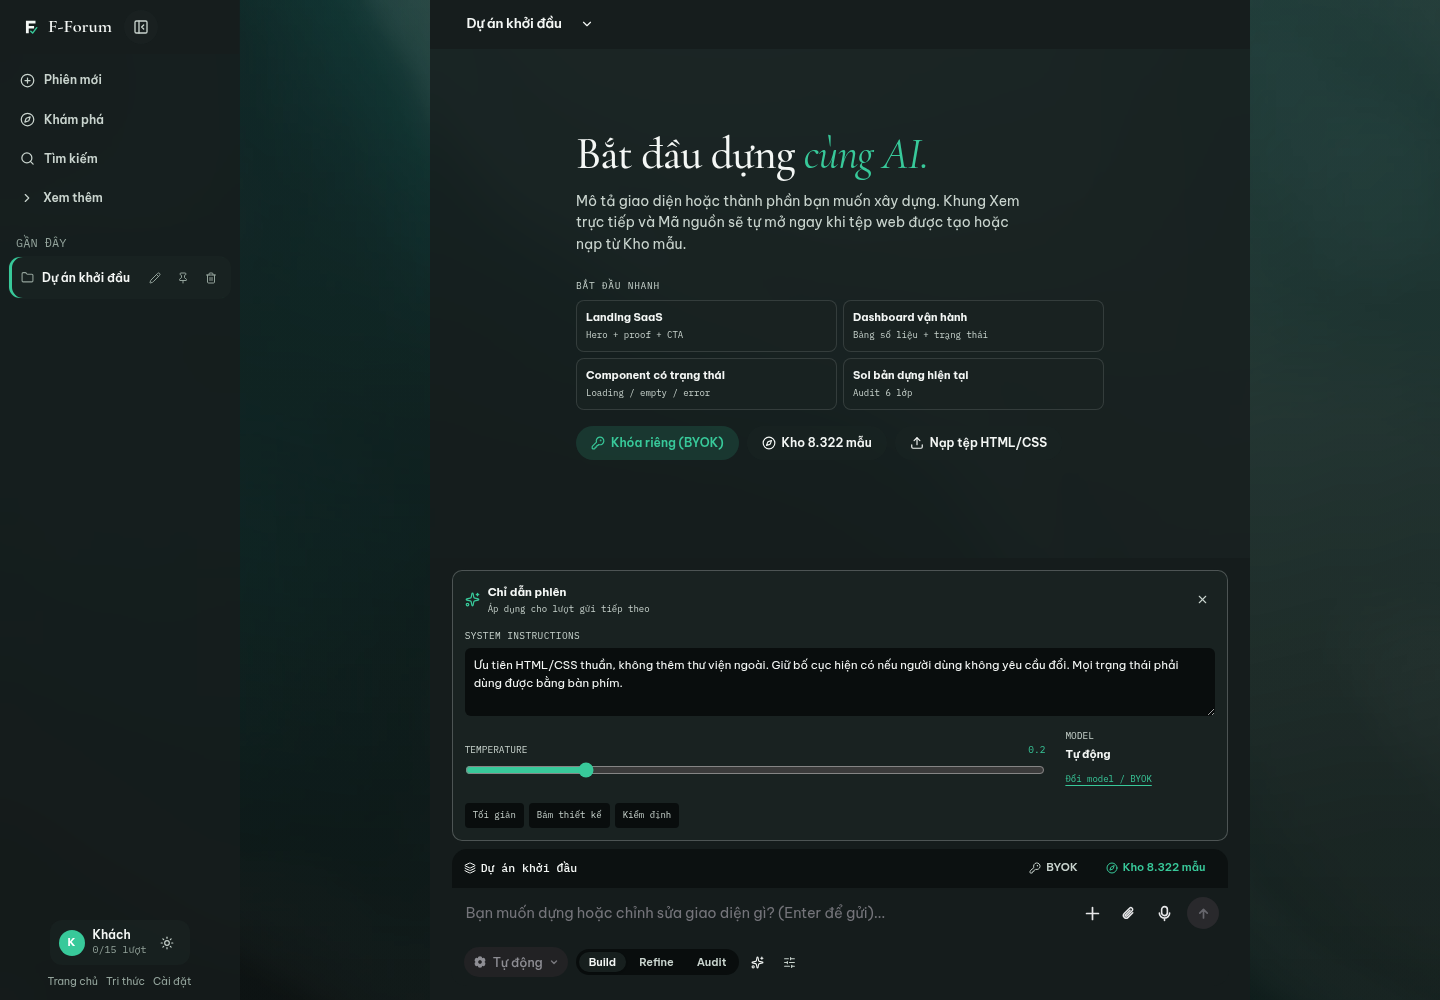
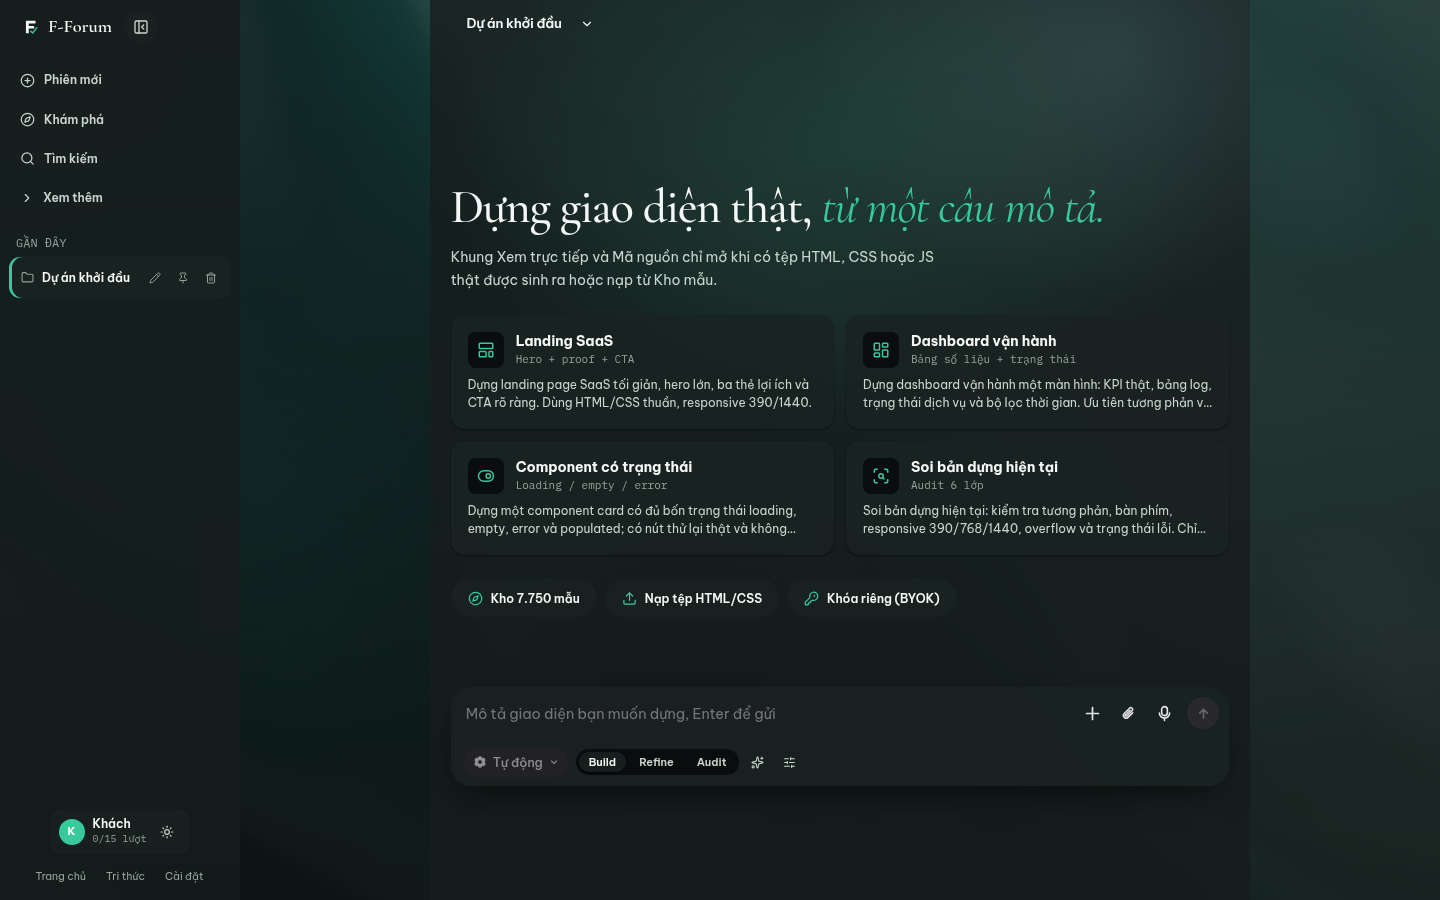
docs(readme): add fine-art studio cover, animated SVG architecture mind-map & fresh 1440px live screenshots

diff --git a/README.md b/README.md
@@ -1,119 +1,128 @@
-# F-FORUM v3
+<div align="center">
 
-[![Live production](https://img.shields.io/badge/live-fforum3.vercel.app-2fb59a)](https://fforum3.vercel.app)
+<img src="docs/assets/hero-art.jpg" alt="F-Forum v3 Nocturnal Glass Studio Artwork" width="880" />
 
-F-FORUM v3 is a developer workspace, curated UI/UX and AI resource index, and technical knowledge hub for building, inspecting, and exporting web interfaces. It combines a retained editorial landing experience at `/` with a four-part application shell (`Home`, `Explore`, `Workspace`, `Knowledge`), an AI build arena with sandboxed live preview, real system instructions and temperature controls, secret-scanned ZIP export, and a dual-runtime backend supporting local Express execution and Vercel Serverless Functions.
+<br />
 
-The Knowledge surface indexes **8,322 records** from [`broamstuck-cybr/SOURCEOFKNOWLEDGFORAI`](https://github.com/broamstuck-cybr/SOURCEOFKNOWLEDGFORAI), ranks them deterministically (title → tags/category → runnable source → source reliability), and routes every result into the Experience stage instead of stopping at a thumbnail.
+<img src="docs/assets/banner.svg" alt="F-Forum v3 — Spatial Web Workbench & 7,750 Free UI/3D Specimens" width="880" />
 
-## Screenshots
+<br />
 
-| Home | Knowledge search | Workspace |
-|---|---|---|
-| ![Home](./docs/screenshots/01-home.png) | ![Knowledge search](./docs/screenshots/02-knowledge.png) | ![Workspace with session instructions](./docs/screenshots/03-workspace.png) |
+[![Live Production](https://img.shields.io/badge/live-fforum3.vercel.app-0d825f?style=flat-square)](https://fforum3.vercel.app)
+[![React 19](https://img.shields.io/badge/React-19-111816?style=flat-square&logo=react&logoColor=38c99a)](https://react.dev)
+[![TypeScript 5](https://img.shields.io/badge/TypeScript-5-111816?style=flat-square&logo=typescript&logoColor=38bdf8)](https://www.typescriptlang.org)
+[![Tests](https://img.shields.io/badge/tests-28%2F28%20passing-1f4d35?style=flat-square)](./tests)
+[![License: MIT](https://img.shields.io/badge/license-MIT-263345?style=flat-square)](./LICENSE)
 
-Screenshots are desktop captures at 1440 px. Knowledge uses live vault data; Workspace shows a real session-instruction panel, not a mock overlay.
+</div>
 
-## Architecture
+---
+
+## Overview
+
+**F-Forum v3** is a full-stack web workbench, curated public UI/3D archive, and technical community built for Vietnamese learners and frontend builders. Instead of leaving users to prompt blank pages from scratch, the app pairs **7,750 free, directly viewable UI and 3D specimens** with a sandboxed AI build workspace, an editorial feed, and a real-time messenger.
+
+Every specimen in the vault comes from six public sources—CodeFronts (`5,047`), GetLayers (`966`), MotionSites (`826`), LucianLabs (`480`), ThreeUI public free (`389`, with all 548 Pro-only routes removed), and PinUI (`42`)—compressed into gzipped shards under `./public/data/vault/` so pages load fast without external vendor redirects.
+
+## Live Product Gallery
+
+Captures taken directly from the production deployment at [fforum3.vercel.app](https://fforum3.vercel.app) at `1440 × 900`:
+
+<table>
+  <tr>
+    <td width="50%" align="center">
+      <img src="docs/screenshots/01-landing.png" alt="F-Forum v3 Editorial Landing & Live Telemetry" width="100%" /><br />
+      <sub><strong>Landing &amp; Live Metrics</strong> — Obsidian/Emerald palette, real visitor &amp; usage-hour telemetry, randomized MotionSites kits</sub>
+    </td>
+    <td width="50%" align="center">
+      <img src="docs/screenshots/02-explore.png" alt="F-Forum v3 Explore 7,750 Public UI & 3D Specimens" width="100%" /><br />
+      <sub><strong>Explore Vault (7,750 Public Specimens)</strong> — Direct sandbox preview, Free ThreeUI motion clips, PinUI interactive demos</sub>
+    </td>
+  </tr>
+  <tr>
+    <td width="50%" align="center">
+      <img src="docs/screenshots/03-workspace.png" alt="F-Forum v3 2027 Spatial AI Workspace" width="100%" /><br />
+      <sub><strong>2027 Spatial Workspace</strong> — Centered prompt canvas when empty; split Live Preview, Diff &amp; 6-layer audit open once code exists</sub>
+    </td>
+    <td width="50%" align="center">
+      <img src="docs/screenshots/04-community.png" alt="F-Forum v3 Editorial Feed & Messenger" width="100%" /><br />
+      <sub><strong>Knowledge Feed &amp; Messenger</strong> — Layered editorial feed cards, grouped chat bubbles, 28-bar voice notes, live BroadcastChannel sync</sub>
+    </td>
+  </tr>
+</table>
+
+## Architecture & Mind-Map
+
+<div align="center">
+  <img src="docs/assets/mindmap.svg" alt="F-Forum v3 Architecture Mind-Map" width="880" />
+</div>
 
 ```mermaid
 flowchart LR
-  Client["React 19 + Vite SPA"] --> Router["Path & Query Router"]
-  Router --> Landing["/ Legacy Editorial Landing"]
-  Router --> AppShell["4-Tab App Shell (Home, Explore, Workspace, Knowledge)"]
-  Router --> Admin["/admin Unlimited Control Plane"]
-  AppShell --> Store["AppStore + LocalStorage Persistence"]
-  Store --> API["/api/* Dual-Runtime Gateway"]
-  API --> Auth["authEngine (HMAC-SHA256 HttpOnly Cookies)"]
+  SPA["React 19 + Vite 6 SPA"] --> Landing["/ Editorial Landing & Bookshelf"]
+  SPA --> Explore["/explore 7,750 Free Vault"]
+  SPA --> Workspace["/workspace AI Build & Audit"]
+  SPA --> Community["/community Feed & Chat"]
+  SPA --> Admin["/admin Isolated Control Plane"]
+
+  Explore --> Shards["public/data/vault/*.jgz (Gzip Shards)"]
+  Workspace --> API["/api/* Express & Vercel Serverless"]
+  Community --> API
+  Admin --> API
+
+  API --> Auth["authEngine (HMAC Cookies + Google OAuth)"]
   API --> Quota["quotaStore (15-Turn Cap / Admin Bypass)"]
-  API --> AIEngine["aiEngine (OpenAI / Anthropic / Gemini + Deterministic Fallback)"]
-  API --> Community["communityStore (Q&A, Showcase, Drops, Club Hub)"]
-  API --> Persistence["Persistence: Supabase PostgreSQL or local JSON fallback"]
+  API --> AI["aiEngine (OpenAI / Anthropic / Gemini)"]
+  API --> Metrics["metricsStore (Real Visitors & Active Hours)"]
+  API --> Store["Supabase RLS or Local JSON Fallback"]
 ```
 
-- **Frontend (`./src`)**: React 19, TypeScript, Tailwind CSS v4, Motion, Lucide icons, and JSZip.
-  - `src/features/launchpad/HomeView.tsx` & `src/components/launchpad/ScrollStoryEngine.tsx`: Spatial Home Launchpad with Liquid Glass `PromptComposer`, client-side Blueprint Builder, and 4-Act GPU Scroll Storytelling Engine (`src/styles/story.css`).
-  - `src/features/explore/ExperienceView.tsx`: live sandbox for CodeFronts/LucianLabs/PinUI, MotionSites trailer + prompt, a GetLayers background lab with real video/overlay/blur controls, and an external-demo handoff for ThreeUI pages that block iframes.
-  - `src/features/workspace/`: 3-column Build Workspace (`WorkspaceView.tsx`, `Thread.tsx`, `LivePreviewFrame.tsx`, `DiffViewer.tsx`, `ChecksPanel.tsx`, `AiProjectSetupDrawer.tsx`) with starter prompts, per-session system instructions and temperature.
-  - `src/features/knowledge/`: search-first Knowledge view (`KnowledgeView.tsx`), deterministic ranking (`knowledgeRanking.ts`) over `public/data/studio-vault.json`, source/category facets, runnable-only filter and paginated results.
-  - `src/features/community/CommunityView.tsx` & `src/features/admin/AdminView.tsx`: 3-mode Knowledge hub (`Tra cứu`, `Bảng tin`, `Phòng chat`) and unlimited `/admin` control plane.
-- **Backend (`./server` & `./api`)**: Shared TypeScript core in `./server` mounted by Express for local development and wrapped by Vercel Serverless handlers in `./api` for cloud deployment.
-- **Persistence**: Optional Supabase PostgreSQL (`supabase/schema.sql`, 8 tables with RLS) stores users, quotas, community content, audit logs, changelog and per-user workspace projects. When `SUPABASE_URL` and `SUPABASE_SERVICE_ROLE_KEY` are unset, the server falls back to a local JSON store in `./data`. Guest workspaces stay in browser `localStorage`; signed-in users sync projects through `/api/projects/*`.
-- **Design System**: Adaptive Dark (`Obsidian Foundry`) and Light (`Editorial Stone`) token palettes built on non-grid spatial layouts and traceable to the five libraries in `broamstuck-cybr/SOURCEOFKNOWLEDGFORAI`.
+## Key Capabilities
+
+- **Curated Public Vault (`src/features/explore`):** 7,750 verified free resources across 6 libraries, plus 60 developer tools and 122 GitHub repositories. All Pro-only ThreeUI items and outbound redirect buttons are excluded so users stay inside the sandbox.
+- **Spatial AI Workspace (`src/features/workspace`):** Keeps the preview pane hidden on blank sessions, opens a split `Live View / Source / Audit & Diff` workbench as soon as HTML/CSS/JS exists, checks 6 quality rules, and exports secret-scanned ZIP bundles.
+- **Editorial Feed & Messenger (`src/features/community`):** Two focused tabs (`Bảng tin` and `Phòng chat`) with layered editorial cards, live code embeds, polls, grouped chat bubbles, 28-bar voice recording/playback, syntax-highlighted snippets, and cross-tab typing indicators.
+- **Collector Bookshelf (`src/components/launchpad/GlacierBookShelf.tsx`):** 12-volume 3D tactile library with linen spine textures, physical shelf lighting, and a quick-jump reader dialog.
+- **Security, Google OAuth & Isolated Admin (`server/authEngine.ts`, `src/features/admin`):** Real Google Identity Services ID-token verification via `oauth2.googleapis.com/tokeninfo`, strict separation between user and admin controls/notifications, live traffic & usage-hour analytics, and role management.
 
 ## Prerequisites
 
-- Node.js 20.0.0 or newer
-- npm 10.0.0 or newer
+- **Node.js 20+** and **npm 10+**
+- Optional: **Supabase** project for cloud persistence, **Google Cloud OAuth 2.0 Web Client ID** for Google Sign-In, and an OpenAI/Anthropic/Gemini-compatible API endpoint.
 
-## Installation
+## Installation & Usage
 
 ```bash
 git clone https://github.com/broamstuck-cybr/f_forumv3.git
 cd f_forumv3
 npm install
 cp .env.example .env
+npm run dev
 ```
 
-## Usage
+Open `http://localhost:5173`. Both the Vite frontend and Express API run together in development; production builds target Vercel Serverless Functions via `./api/*`.
 
-Populate `.env` with your AI provider credentials and session secret before starting the development server.
+### Verification Commands
 
 ```bash
-# Run both the Vite frontend and the Express API server concurrently
-npm run dev
-
-# Run frontend or API server individually
-npm run dev:web
-npm run dev:api
-
-# Run static typecheck and lint verification
-npm run typecheck
-npm run lint
-
-# Run the automated Node test suite
-npm test
-
-# Build production assets into ./dist
-npm run build
-
-# Confirm Supabase tables and RLS (requires SUPABASE_URL and SUPABASE_SERVICE_ROLE_KEY)
-node scripts/verify-supabase.mjs
+npm run typecheck   # TypeScript strict check
+npm run lint        # Oxlint static analysis
+npm test            # 28 unit & regression tests (auth, quota, vault, metrics)
+npm run build       # Production Vite bundle
 ```
 
 ## Configuration
 
-All runtime secrets and gateway parameters are read from environment variables. Copy `.env.example` to `.env` for local execution or configure them in your deployment platform.
+| Variable | Required | Purpose |
+| --- | --- | --- |
+| `SESSION_SECRET` | Yes (prod) | HMAC-SHA256 signing key for HttpOnly session cookies |
+| `ADMIN_USERNAME` | Yes (admin) | Admin login identifier |
+| `ADMIN_PASSWORD_HASH` | Yes (admin) | Scrypt password hash for root admin authentication |
+| `GOOGLE_CLIENT_ID` | Optional | Google OAuth 2.0 Web Client ID verified by `/api/auth/google` |
+| `VITE_GOOGLE_CLIENT_ID` | Optional | Public Client ID loaded by Google Identity Services in `AuthModal` |
+| `AI_BASE_URL` / `AI_API_KEY` / `AI_MODEL` | Optional | Server-side AI gateway (users can also configure BYOK in Settings) |
+| `SUPABASE_URL` / `SUPABASE_SERVICE_ROLE_KEY` | Optional | Cloud PostgreSQL persistence (`supabase/schema.sql`); falls back to local JSON in `./data` |
 
-| Variable | Required | Default | Description |
-|---|---|---|---|
-| `AI_API_KEY` | Yes | empty | Server-side API key for the upstream LLM provider |
-| `AI_PROTOCOL` | No | `openai-compatible` | Upstream protocol (`openai-compatible`, `anthropic`, or `gemini`) |
-| `AI_BASE_URL` | No | `https://api.openai.com/v1` | Base endpoint URL for the configured AI protocol |
-| `AI_MODEL` | No | `gpt-4o-mini` | Default model identifier used for Workspace generation |
-| `SESSION_SECRET` | Yes | empty | HMAC-SHA256 signing key for `HttpOnly` authentication cookies |
-| `ADMIN_USERNAME` | Yes | `admin` | Dedicated administrator login identifier |
-| `ADMIN_PASSWORD_HASH` | Prod | empty | Scrypt password hash (`salt:hash`) for production administrator login |
-| `ADMIN_BOOTSTRAP_PASSWORD` | Dev only | empty | Local development bootstrap password when `ADMIN_PASSWORD_HASH` is unset |
-| `SUPABASE_URL` | No | empty | Supabase project URL; enables PostgreSQL persistence (server-only) |
-| `SUPABASE_SERVICE_ROLE_KEY` | No | empty | Supabase `service_role` key used by the server (never expose to the client) |
-| `PORT` | No | `8787` | Local Express API listening port |
+## Contributing & License
 
-## Documentation
-
-- [Product Specification](./docs/PRODUCT_SPEC.md)
-- [UI Architecture & Design Tokens](./docs/UI_ARCHITECTURE.md)
-- [Source of Knowledge Coverage (100%)](./docs/SOURCE_COVERAGE.md)
-- [Vercel Deployment Guide](./docs/DEPLOYMENT_VERCEL.md)
-- [Third-Party Notices & Attribution](./NOTICE.md)
-
-## Contributing
-
-1. Fork the repository and create a feature branch.
-2. Ensure `npm run typecheck`, `npm test`, and `npm run build` exit with code `0`.
-3. Verify that no secrets, `.env` files, or local absolute paths are included in staged commits.
-4. Submit a pull request with a clear technical summary of the changes.
-
-## License
-
-Released under the [MIT License](./LICENSE). Third-party pattern attributions are documented in [NOTICE.md](./NOTICE.md).
+Pull requests that keep tests green (`npm test`), zero console errors, and clean token styling are welcome. Licensed under the [MIT License](./LICENSE).
